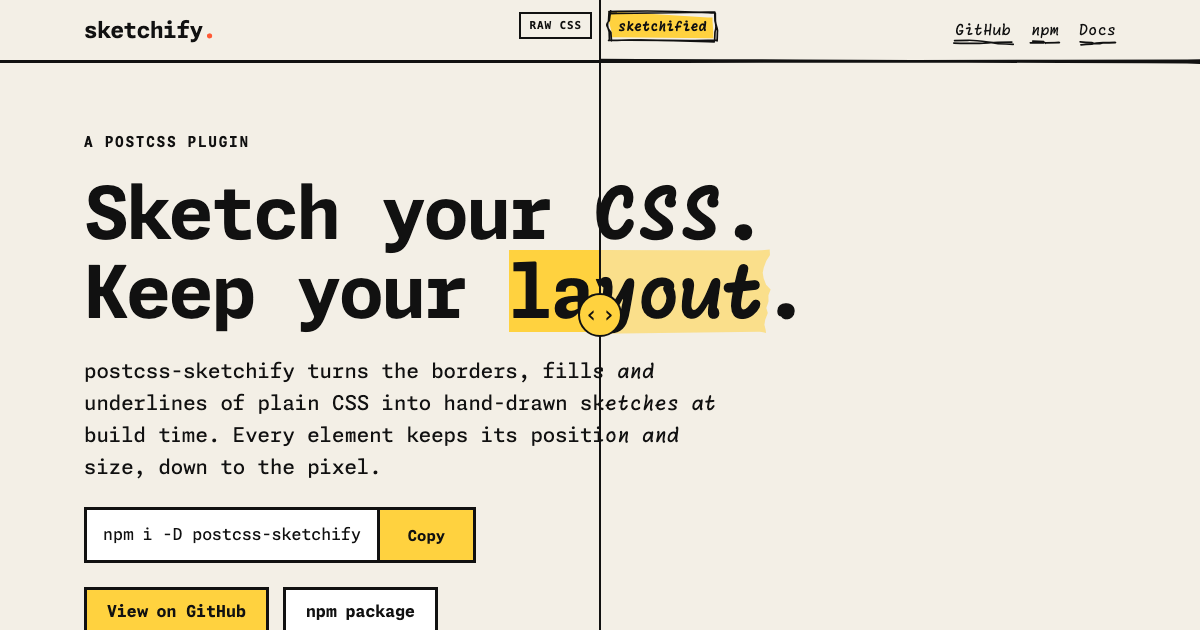
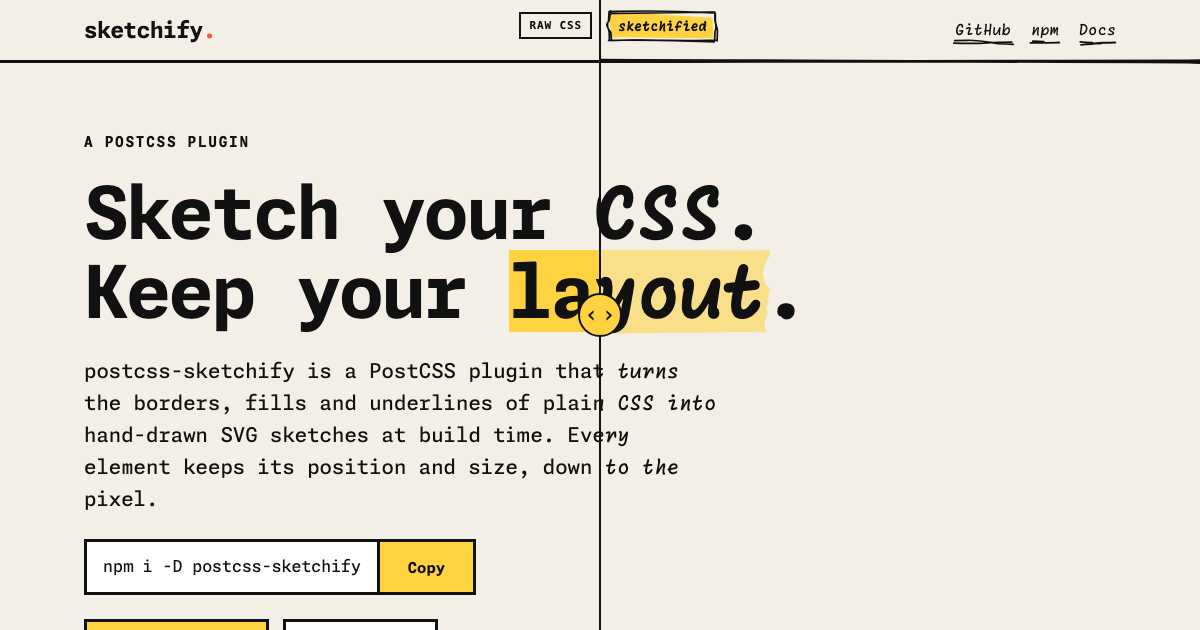
Landing page: one definition everywhere, and llms.txt
AI answers quote what they see repeated, so the page, its metadata and
structured data, the README and both packages now describe the project
with the same sentence; a unit test keeps it identical. Adds llms.txt, a
plain summary for language models. Both packages point to the site.

Changed region(s): [[0.0617, 0.7841, 0.4008, 0.9952], [0.0617, 0.573, 0.5858, 0.754]]

diff --git a/site/src/shell.html b/site/src/shell.html
@@ -4,14 +4,14 @@
 <meta charset="utf-8">
 <meta name="viewport" content="width=device-width, initial-scale=1">
 <title>postcss-sketchify: hand-drawn CSS borders and fills, same layout</title>
-<meta name="description" content="postcss-sketchify turns the borders, fills and underlines of plain CSS into hand-drawn sketches at build time, without moving a pixel of layout.">
+<meta name="description" content="postcss-sketchify is a PostCSS plugin that turns the borders, fills and underlines of plain CSS into hand-drawn SVG sketches at build time, without changing layout.">
 <link rel="canonical" href="https://cometomicasa.github.io/sketchify/">
 <link rel="icon" href="favicon.svg" type="image/svg+xml">
 <meta name="theme-color" content="#f3efe6">
 <meta property="og:type" content="website">
 <meta property="og:site_name" content="postcss-sketchify">
 <meta property="og:title" content="postcss-sketchify: hand-drawn CSS borders and fills, same layout">
-<meta property="og:description" content="postcss-sketchify turns the borders, fills and underlines of plain CSS into hand-drawn sketches at build time, without moving a pixel of layout.">
+<meta property="og:description" content="postcss-sketchify is a PostCSS plugin that turns the borders, fills and underlines of plain CSS into hand-drawn SVG sketches at build time, without changing layout.">
 <meta property="og:url" content="https://cometomicasa.github.io/sketchify/">
 <meta property="og:image" content="https://cometomicasa.github.io/sketchify/og.png">
 <meta property="og:image:width" content="1200">
@@ -23,7 +23,7 @@
   "@context": "https://schema.org",
   "@type": "SoftwareSourceCode",
   "name": "postcss-sketchify",
-  "description": "postcss-sketchify turns the borders, fills and underlines of plain CSS into hand-drawn sketches at build time, without moving a pixel of layout.",
+  "description": "postcss-sketchify is a PostCSS plugin that turns the borders, fills and underlines of plain CSS into hand-drawn SVG sketches at build time, without changing layout.",
   "url": "https://cometomicasa.github.io/sketchify/",
   "codeRepository": "https://github.com/ComeToMiCasa/sketchify",
   "sameAs": ["https://www.npmjs.com/package/postcss-sketchify"],

diff --git a/test/unit/site.test.ts b/test/unit/site.test.ts
@@ -72,3 +72,28 @@ describe('landing page metadata', () => {
     expect(shell).toContain('<link rel="icon" href="favicon.svg" type="image/svg+xml">');
   });
 });
+
+// One definition, word for word, wherever the project describes itself: AI answers quote what they
+// see repeated (the page, its metadata, llms.txt, README and npm).
+describe('landing page definition', () => {
+  const file = (path: string): string => readFileSync(new URL(`../../${path}`, import.meta.url), 'utf8');
+  const DEFINITION =
+    'postcss-sketchify is a PostCSS plugin that turns the borders, fills and underlines of plain CSS into hand-drawn SVG sketches at build time, without changing layout.';
+  const shell = file('site/src/shell.html');
+
+  it('is the description in the metadata and the structured data', () => {
+    expect(shell.match(/<meta name="description" content="([^"]+)">/)?.[1]).toBe(DEFINITION);
+    expect(shell.match(/<meta property="og:description" content="([^"]+)">/)?.[1]).toBe(DEFINITION);
+    const ld = JSON.parse(shell.match(/<script type="application\/ld\+json">([\s\S]*?)<\/script>/)?.[1] ?? '{}') as { description?: string };
+    expect(ld.description).toBe(DEFINITION);
+  });
+
+  it('opens the page, llms.txt, the README and the npm description', () => {
+    const opening = DEFINITION.replace(', without changing layout.', '');
+    expect(file('site/src/page.html')).toContain(`<p class="hero__lead">${opening}.`);
+    expect(file('site/src/llms.txt').split('\n').slice(0, 3)).toEqual(['# postcss-sketchify', '', `> ${DEFINITION}`]);
+    expect(file('README.md')).toContain(`**postcss-sketchify** ${DEFINITION.replace('postcss-sketchify ', '').replace(', without changing layout.', ', **without changing layout**')}`);
+    const pkg = JSON.parse(file('package.json')) as { description: string };
+    expect(pkg.description).toBe(DEFINITION.replace('postcss-sketchify is a', 'A').replace(/\.$/, ''));
+  });
+});

diff --git a/site/src/page.html b/site/src/page.html
@@ -13,7 +13,7 @@
   <section class="wrap hero">
     <p class="eyebrow">A PostCSS plugin</p>
     <h1 class="hero__title">Sketch your CSS.<br>Keep your <span class="hl">layout</span>.</h1>
-    <p class="hero__lead">postcss-sketchify turns the borders, fills and underlines of plain CSS into hand-drawn sketches at build time. Every element keeps its position and size, down to the pixel.</p>
+    <p class="hero__lead">postcss-sketchify is a PostCSS plugin that turns the borders, fills and underlines of plain CSS into hand-drawn SVG sketches at build time. Every element keeps its position and size, down to the pixel.</p>
     <div class="install">
       <code class="install__cmd">npm i -D postcss-sketchify</code>
       <button class="copy" type="button" data-copy="npm i -D postcss-sketchify">Copy</button>

diff --git a/README.md b/README.md
@@ -1,6 +1,6 @@
 # postcss-sketchify
 
-A PostCSS plugin that turns the borders, fills and underlines of plain CSS into hand-drawn sketches, **without moving a single pixel of layout**.
+**postcss-sketchify** is a PostCSS plugin that turns the borders, fills and underlines of plain CSS into hand-drawn SVG sketches at build time, **without changing layout**: every element keeps its position and size, down to the pixel.
 
 **[See it live →](https://cometomicasa.github.io/sketchify/)**
 

diff --git a/packages/sketchify/README.md b/packages/sketchify/README.md
@@ -1,6 +1,6 @@
 # sketchify
 
-Turns the borders, fills and underlines of plain CSS into hand-drawn sketches, without moving a single pixel of layout.
+The command line for [postcss-sketchify](https://cometomicasa.github.io/sketchify/), a PostCSS plugin that turns the borders, fills and underlines of plain CSS into hand-drawn SVG sketches at build time, without changing layout.
 
 ```sh
 npx sketchify style.css -o style.sketch.css
